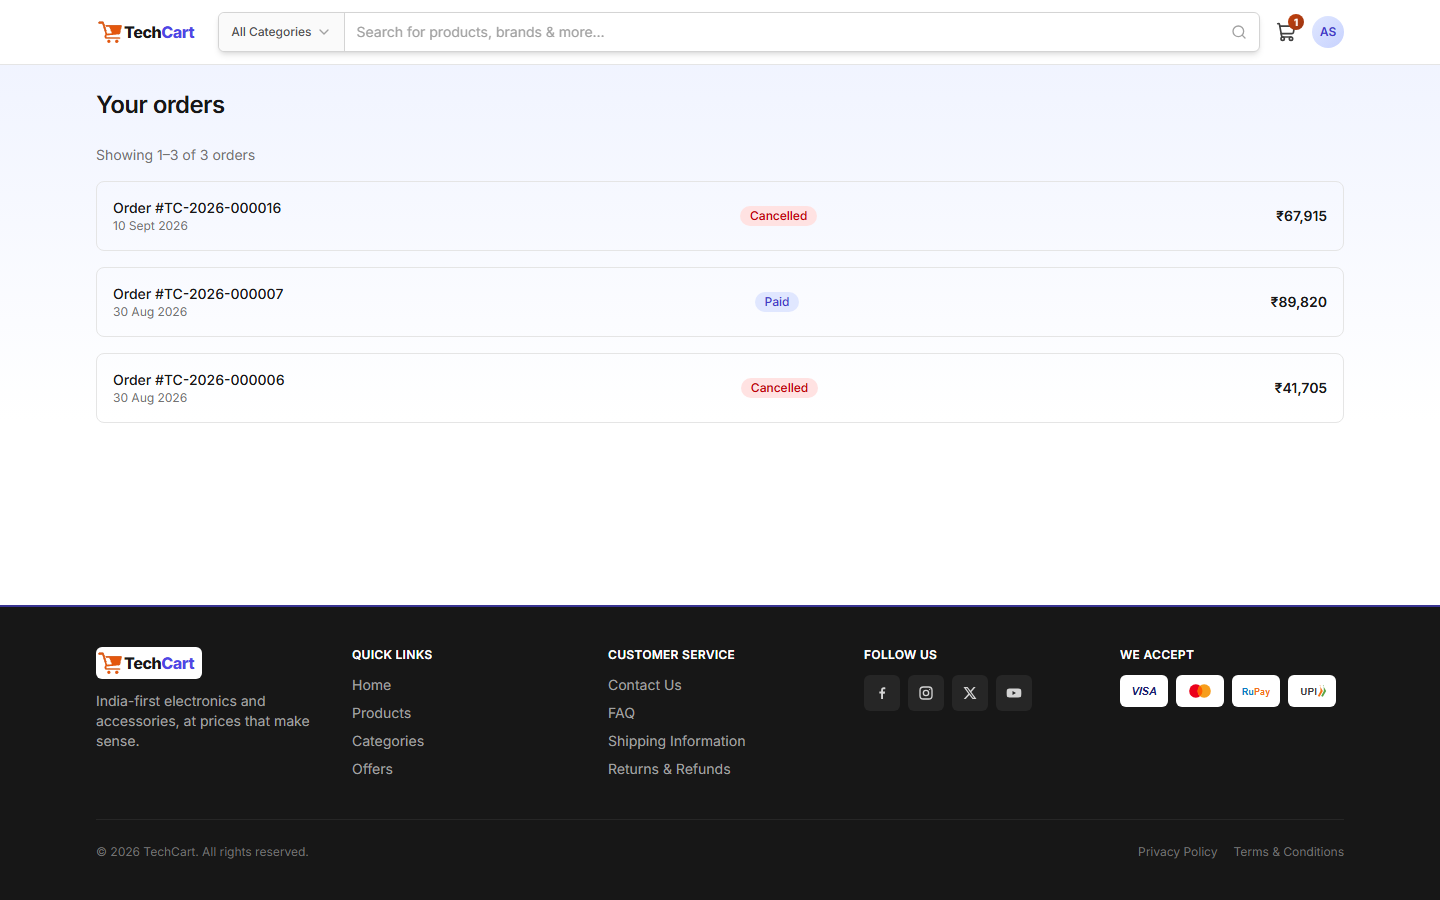
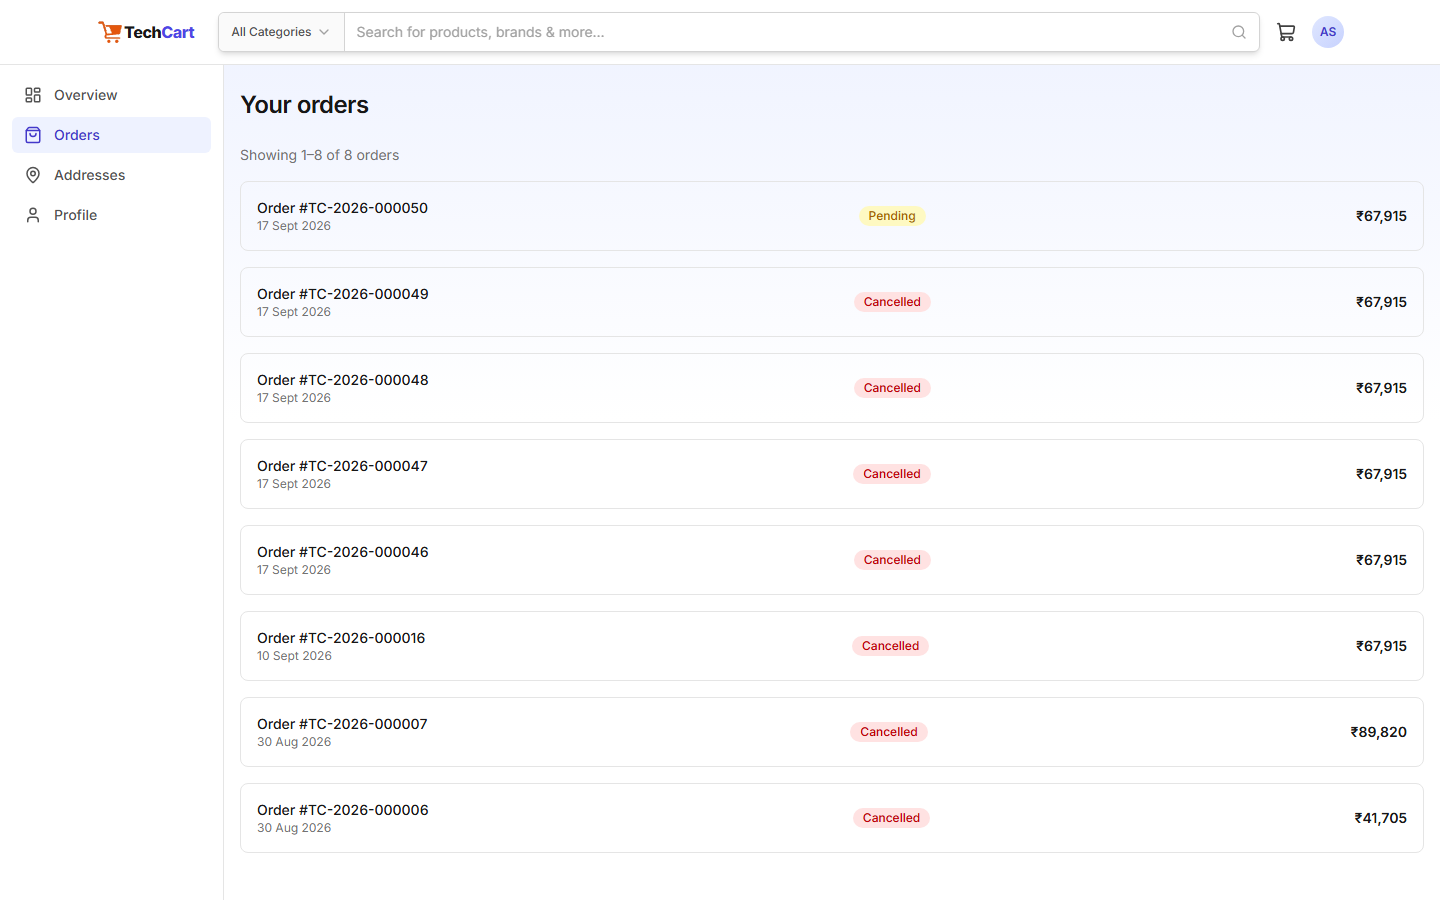
docs(buyer-app): refresh user-manual screenshots and fix capture.mjs bugs
Re-captures every buyer-app screenshot against the live deployment for the
first time since PR #371 to catch up with the account sidebar shell (#381),
order-page confirm dialogs/modals (#390), cart/checkout polish and mini-cart
click-toggle (#392), and the payment success modal removal (#394). Adds two
new shots (cancel confirm dialog, account profile page) and rewrites the
affected manual prose (mini-cart click vs hover, pending-order actions,
account/addresses layout).

Also fixes three independent capture.mjs bugs found while re-running it live,
each masking the next: the cleanup step matched "Pending payment" list-row
text that OrderStatusBadge never renders (just "Pending"); its identity guard
used an exact match on a shipping name split across sibling text nodes,
which can never succeed; and the mini-cart shot's selector matched zero
elements post-#392 and silently fell through to the logo's aria-label
(both contain the substring "Cart"), screenshotting the plain page instead.
All three left orphaned pending_payment orders on the shared production
backend, cancelled by hand via the API once found.

diff --git a/docs/user-manuals/buyer-app.md b/docs/user-manuals/buyer-app.md
@@ -267,8 +267,9 @@ the reason (for example _"Only 3 left in stock"_).
 
 ### The mini-cart
 
-Hover (or focus) the cart icon in the header for a quick summary — each line, its
-quantity, whether it is unavailable, the subtotal, and a **View cart** button.
+Click the cart icon in the header for a quick summary — each line, its quantity,
+whether it is unavailable, the subtotal, and a **View cart** button. Click the icon
+again, click elsewhere, or press **Escape** to close it.
 
 ![Mini-cart dropdown](assets/buyer-app/15-mini-cart.png)
 
@@ -304,7 +305,8 @@ item.
 - **Shipping address** lists your saved addresses as radio options — full name, a
   **Default** pill where it applies, the address, and phone. Your default (or first)
   address is pre-selected.
-- **Add a new address** opens an inline form; saving it selects that address.
+- **Add a new address** opens a modal with the address form; saving it selects that
+  address.
 
 ![Checkout — adding an address](assets/buyer-app/18-checkout-add-address.png)
 
@@ -332,7 +334,7 @@ After the order is placed, the payment step loads the **Razorpay Checkout** wind
   payment** button. Retrying starts a fresh payment attempt.
 
 Your order is created as soon as **Place order** succeeds — even if payment is not
-completed, it appears under **Your orders** as **Pending payment**, and the ordered
+completed, it appears under **Your orders** as **Pending**, and the ordered
 items are removed from your cart. You can return and pay later, or cancel it.
 
 The Razorpay Checkout card (card / UPI / net-banking options) is rendered by Razorpay
@@ -343,7 +345,8 @@ merchant account.
 
 ## 9. Your orders
 
-Open **Orders** from the account menu, or go to `/orders`.
+Open **Orders** from the account sidebar (see [section 10](#10-your-account)), or go
+to `/orders`.
 
 ![Order history](assets/buyer-app/20-orders.png)
 
@@ -359,47 +362,70 @@ Open **Orders** from the account menu, or go to `/orders`.
 An order page shows:
 
 - **Order #**, the date placed, and the current status badge.
-- **Items** — each line as _name (attributes) × qty_ with its line total, then the
-  **Total**.
+- **Items** — each line with its image, product name (linking to the product), the
+  chosen variant attributes, quantity, and line total, then the **Total**.
 - **Shipping address**.
 - **Cancellation reason**, if the order was cancelled.
 - **Status** — a timeline of every status change with its date, time, and any note.
 
+### Acting on a pending order
+
+While an order's status is **Pending** (payment not yet completed), two extra
+options appear above Status:
+
+- **Pay now** opens the same Razorpay payment step from checkout, for this order.
+- **Add items to cart** adds every line back to your cart, then cancels this
+  order — useful if you'd rather adjust quantities or add more items before paying.
+
 ### Cancelling
 
-A **Cancel order** button appears only while the order is **Pending payment** or
-**Paid**. Once cancelled it cannot be reopened.
+A **Cancel order** button appears only while the order is **Pending** or **Paid**.
+Cancel order, Pay now, and Add items to cart each open a confirm dialog first —
+nothing happens until you confirm. Once cancelled, an order cannot be reopened.
+
+![Cancel confirmation](assets/buyer-app/27-cancel-confirm-dialog.png)
 
 ### Status meanings
 
-| Status              | Meaning                                  |
-| ------------------- | ---------------------------------------- |
-| **Pending payment** | Order placed, payment not yet completed. |
-| **Paid**            | Payment received; awaiting processing.   |
-| **Processing**      | Being prepared for dispatch.             |
-| **Shipped**         | Handed to the carrier.                   |
-| **Delivered**       | Received by you.                         |
-| **Cancelled**       | Cancelled by you or by staff.            |
-| **Refunded**        | Payment refunded.                        |
+| Status         | Meaning                                  |
+| -------------- | ----------------------------------------- |
+| **Pending**    | Order placed, payment not yet completed. |
+| **Paid**       | Payment received; awaiting processing.   |
+| **Processing** | Being prepared for dispatch.             |
+| **Shipped**    | Handed to the carrier.                   |
+| **Delivered**  | Received by you.                         |
+| **Cancelled**  | Cancelled by you or by staff.            |
+| **Refunded**   | Payment refunded.                        |
 
 ---
 
 ## 10. Your account
 
-Open **Account** from the header menu, or go to `/account`. You must be signed in.
+Open **Account** from the header profile menu, or go to `/account`. You must be
+signed in.
 
-![Account page](assets/buyer-app/21-account.png)
+The account area has its own sidebar with four sections — **Overview**, **Orders**,
+**Addresses**, and **Profile** — that stays alongside the content on desktop, and
+collapses to a hamburger-triggered drawer (**Account menu**) on mobile.
 
-The account page has:
+![Account overview](assets/buyer-app/21-account.png)
+
+**Overview** (`/account`) has:
 
 - **Account summary** — your name, email, and **Lifetime orders** / **Lifetime
-  spent** totals.
+  spent** totals as icon stat tiles.
+- A **Track your orders** banner linking to **Orders**.
 - **Recent orders** — your five most recent orders, with a **View all orders** link.
   A brand-new account shows _"You haven't placed any orders yet."_
-- **Edit profile** — see below.
-- Links to **Manage saved addresses** and **View your orders**.
+
+**Orders** and **Addresses** open the screens covered in [section 9](#9-your-orders)
+and just below; **Profile** is its own page.
 
 ### Editing your profile
+
+![Edit profile](assets/buyer-app/28-account-profile.png)
+
+Open **Profile** from the sidebar, or go to `/account/profile`.
 
 | Field             | Notes                                               |
 | ----------------- | --------------------------------------------------- |
@@ -407,15 +433,14 @@ The account page has:
 | **Name**          | Editable.                                           |
 | **Phone**         | Editable.                                           |
 
-Click **Save Changes**; a green _"Profile updated."_ confirms the change. Your name in
-the header updates too.
+Click **Save Changes**; a toast confirms _"Profile updated."_ Your name in the header
+updates too.
 
 ---
 
 ## 11. Saved addresses
 
-Open **Manage saved addresses** from the account page, or go to
-`/account/addresses`.
+Open **Addresses** from the account sidebar, or go to `/account/addresses`.
 
 ![Saved addresses](assets/buyer-app/22-addresses.png)
 
@@ -431,6 +456,8 @@ button.
 
 ### The address form
 
+**Add an address** and **Edit** both open the same form in a modal.
+
 ![Address form](assets/buyer-app/23-address-form.png)
 
 | Field                         | Required |
@@ -443,8 +470,9 @@ button.
 | **State**                     | Yes      |
 | **PIN code**                  | Yes      |
 
-Submit with **Add address** (new) or **Save changes** (editing); **Cancel** discards.
-The same form is used inline during checkout.
+Submit with **Add address** (new) or **Save changes** (editing); **Cancel** closes the
+modal without saving. The identical form opens in its own modal during checkout too
+(see [section 8](#8-checkout--payment)).
 
 ---
 
@@ -457,13 +485,14 @@ The same form is used inline during checkout.
 | **Logo**                    | Returns to the home page.                                                                                                                             |
 | **All Categories**          | Dropdown of top-level categories; each opens its category page.                                                                                       |
 | **Search box**              | _"Search for products, brands & more…"_ — suggestions after two characters; Enter opens the results page. On a phone, tap the magnifier to reveal it. |
-| **Cart icon**               | Links to the cart. Shows a count badge once you have items and briefly shakes when the count goes up. Hover for the mini-cart.                        |
+| **Cart icon**               | Click for the mini-cart. Shows a count badge once you have items and briefly shakes when the count goes up.                                           |
 | **Profile icon / initials** | Signed out: links to sign-in. Signed in: opens a menu.                                                                                                |
 
 ![Profile menu](assets/buyer-app/25-profile-menu.png)
 
 The profile menu (signed in) contains your name and email, then **Account**,
-**Orders**, and **Sign out**.
+**Orders**, and **Sign out** — which opens a confirm dialog before ending your
+session.
 
 The footer has quick links, customer-service links, social links, and the accepted
 payment methods. Many footer links are placeholders on the current build.

diff --git a/docs/user-manuals/screenshots/README.md b/docs/user-manuals/screenshots/README.md
@@ -115,3 +115,28 @@ servers.
   the cart; a single cancelled order is left in that buyer's history. The
   `create-flows` phase adds an "Aurora …" brand/category/product to the local
   database — drop those rows afterwards if you want a clean dataset.
+- **2026-09-17 buyer-app refresh** (no issue/milestone): every `buyer` screenshot was
+  re-captured against the live deployment for the first time since PR #371 to catch
+  up with several redesigns merged since (account sidebar shell PR #381, order-page
+  confirm dialogs/modals PR #390, cart/checkout polish + mini-cart click-toggle
+  PR #392, payment success modal removal PR #394), plus two new shots
+  (`27-cancel-confirm-dialog.png`, `28-account-profile.png`). Three real,
+  independent bugs in `capture.mjs` itself were found and fixed in the process,
+  each previously masking the next: (1) the cleanup step's own list-row filter
+  looked for badge text "Pending payment", but `OrderStatusBadge` only ever
+  renders "Pending" — so cleanup silently never found its own test order to
+  cancel; (2) even once found, its identity guard used an **exact** text match on
+  the fixed shipping name "Sam Shopper", which can never succeed since the
+  address renders as one `<br>`-joined block of text, not an isolated element —
+  loosened to a substring match; (3) the mini-cart shot's selector,
+  `a[aria-label*='Cart']`, matched zero elements once the real control became a
+  `<button>` (PR #392), and silently fell through to the **Logo**'s
+  `aria-label="TechCart home"` (which also contains the substring "Cart"),
+  hovering that instead and shooting a plain page with no dropdown open — fixed
+  to a precise `button[aria-label^='Cart']` click. All three were caught by
+  actually re-running the script end-to-end against the live backend and
+  checking the real order state via the API afterward, not just reading the
+  script's own success log (which reported "done" throughout, even while
+  silently leaving three separate stray `pending_payment` test orders behind on
+  the shared production backend — each cancelled by hand via the API once
+  found).
